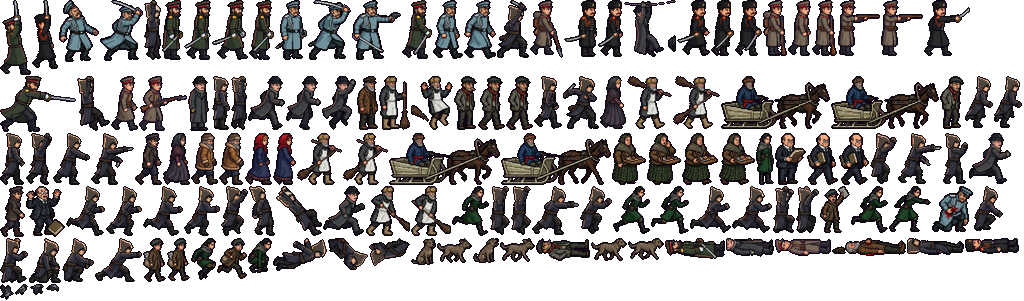
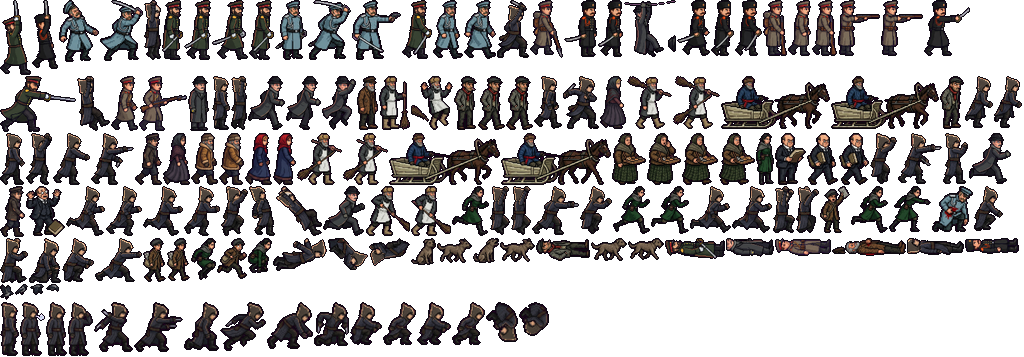
Обновление 2026-11-19 23:09

diff --git a/games/strazha/index.html b/games/strazha/index.html
@@ -385,7 +385,7 @@ function landCheck(){const fell=(P.y-P.fallY)/TS;const soft=hideAt(P.x,P.y)||hid
     if(fell>13)damage(Math.ceil((fell-13)/2),P.x);if(fell>8){G.rollN=(G.rollN||0)+1;toastTxt('Перекат!');if(G.rollN>=5)ach('roll5');}return;}
   if(fell>8&&fell<=18&&P.st!=='dead')hint('Перед самым приземлением жми БЛОК — Илья уйдёт в перекат и не разобьётся.');
   if(fell>13)die();else if(fell>8)damage(Math.ceil((fell-8)/2),P.x);else if(fell>2.5){sfx('land');P.land=8;if(fell>5)haptic('light');}}
-function updPlayer(){const p=P;p.anim++;if(p.inv>0)p.inv--;if(p.hurt>0)p.hurt--;if(p.noGrab>0)p.noGrab--;if(p.ctr>0)p.ctr--;if(p.kill>0)p.kill--;if(p.cj>0)p.cj--;if(p.land>0)p.land--;if(p.comboT>0)p.comboT--;
+function updPlayer(){const p=P;p.anim++;if(p.inv>0)p.inv--;if(p.hurt>0)p.hurt--;if(p.noGrab>0)p.noGrab--;if(p.ctr>0)p.ctr--;if(p.kill>0)p.kill--;if(p.cj>0)p.cj--;if(p.land>0)p.land--;if(p.kanim&&p.kanim.t>0)p.kanim.t--;if(p.comboT>0)p.comboT--;
   if(p.st==='dead'){p.vy=Math.min(p.vy+0.35,7);moveY(p,p.vy,PW,8);return;}
   if(p.st==='sync'||p.st==='tackle'||p.st==='hook')return;
   if(p.rollBuf>0)p.rollBuf--;if(IN.b&&!p.bWas&&p.st==='air'&&p.vy>0)p.rollBuf=16;p.bWas=IN.b;
@@ -491,7 +491,7 @@ function attackHit(){let hit=false;const knife=WPN[P.wpn]==='knife';for(const e 
 function airKill(){if(P.vy<1.5)return;for(const e of L.enemies){if(e.dead||e.k==='line')continue;
   if(Math.abs(e.x-P.x)<11&&P.y>e.y-28&&P.y<e.y-8){const o=L.enemies.find(q=>q!==e&&!q.dead&&q.k!=='line'&&!q.boss&&q.st!=='alert'&&Math.abs(q.x-e.x)<26&&Math.abs(q.y-e.y)<10);
     if(o&&e.st!=='alert'){finisher(e,'double');finisher(o,'double');G.slow=34;toastTxt('Двойной удар сверху!');ach('double');haptic('heavy');}else finisher(e,'air');P.vy=-2.5;P.fallY=P.y;return;}}}
-function finisher(e,how){if(e.boss){bossHit(e,how);return;}haptic('medium');e.dead=1;e.dt=0;e.st='dead';e.how=how;e.dface=sgn(P.x-e.x)||1;if(G.tok===e)G.tok=null;G.kills++;
+function finisher(e,how){if(how==='double'||how==='chain'||how==='air')P.kanim={k:how,t:20};if(e.boss){bossHit(e,how);return;}haptic('medium');e.dead=1;e.dt=0;e.st='dead';e.how=how;e.dface=sgn(P.x-e.x)||1;if(G.tok===e)G.tok=null;G.kills++;
   const silent=(how==='back'||how==='hide'||how==='air'||how==='double')&&WPN[P.wpn]!=='knife';
   if(silent){G.silent++;if(how==='back'||how==='air')ach('blade');}else if(how!=='double')for(const o of L.enemies)if(!o.dead&&o!==e&&Math.abs(o.x-e.x)<90&&Math.abs(o.y-e.y)<30&&o.st!=='alert')o.meter=Math.min(1,o.meter+0.6);
   if(G.wx&&G.wx.int>0.5)ach('storm');
@@ -725,7 +725,7 @@ const LOOK={
 
 /* ================= СПРАЙТЫ ИЗ SYNTX ================= 
   атлас: имя → [x,y,w,h,ax,ay]; 1 пиксель спрайта = 0.5 пикселя мира; (ax,ay) — точка ног */
-const SPR={img:null,ok:false,m:{"ilya_run0": [965, 76, 28, 52, 15.7, 51], "ilya_run1": [66, 186, 39, 50, 25.0, 49], "ilya_run2": [690, 186, 41, 47, 25.4, 46], "ilya_run3": [106, 186, 36, 50, 22.0, 49], "ilya_run4": [994, 76, 28, 52, 15.4, 51], "ilya_run5": [143, 186, 40, 50, 24.9, 49], "ilya_run6": [732, 186, 40, 47, 24.2, 46], "ilya_run7": [184, 186, 36, 50, 20.9, 49], "ilya_idle": [212, 76, 18, 54, 8.6, 53], "ilya_walk0": [534, 76, 28, 53, 15.0, 52], "ilya_walk1": [0, 133, 25, 52, 13.6, 51], "ilya_crouch": [62, 238, 32, 44, 16.1, 43], "ilya_jump": [221, 186, 27, 50, 11.0, 49], "ilya_fall": [26, 133, 26, 52, 12.9, 51], "ilya_land": [974, 186, 29, 45, 13.8, 44], "ilya_hurt": [249, 186, 26, 50, 12.4, 49], "ilya_climb0": [490, 186, 20, 49, 8.2, 48], "ilya_climb1": [773, 186, 22, 47, 9.0, 46], "ilya_climb2": [511, 186, 20, 49, 8.1, 48], "ilya_climb3": [796, 186, 23, 47, 8.4, 46], "ilya_wall": [0, 238, 28, 45, 13.5, 44], "ilya_hang": [231, 76, 16, 54, 8.3, 53], "ilya_pull0": [870, 133, 27, 51, 10.0, 50], "ilya_pull1": [580, 186, 32, 48, 14.7, 47], "ilya_atk1": [898, 133, 44, 51, 19.9, 50], "ilya_atk2": [53, 133, 37, 52, 20.1, 51], "ilya_atk3": [95, 238, 47, 44, 28.5, 43], "ilya_block": [943, 133, 25, 51, 11.8, 50], "ilya_kill": [532, 186, 47, 49, 24.9, 48], "ilya_throw": [91, 133, 43, 52, 20.0, 51], "ilya_roll0": [328, 238, 40, 32, 18.5, 31], "ilya_roll1": [369, 238, 41, 28, 18.3, 27], "ilya_swing0": [144, 0, 17, 60, 8.1, 59], "ilya_swing1": [276, 186, 46, 50, 23.3, 49], "ilya_zip": [77, 76, 33, 55, 10.4, 54], "ilya_dive": [273, 238, 54, 33, 27.2, 32], "ilya_sync": [29, 238, 32, 45, 18.4, 44], "ilya_dead": [907, 238, 57, 17, 25.9, 16], "ilya_wind1": [563, 76, 36, 53, 18.0, 52], "ilya_wind2": [497, 0, 32, 58, 15.9, 57], "cop_idle": [564, 0, 33, 57, 23.1, 56], "cop_walk0": [598, 0, 25, 57, 15.4, 56], "cop_walk1": [677, 0, 33, 56, 21.0, 55], "cop_walk2": [711, 0, 23, 56, 12.1, 55], "cop_walk3": [735, 0, 27, 56, 14.3, 55], "cop_wind": [32, 0, 26, 69, 11.5, 68], "soldier_idle": [763, 0, 24, 56, 10.4, 55], "soldier_walk0": [788, 0, 23, 56, 13.4, 55], "soldier_walk1": [111, 76, 27, 55, 15.1, 54], "soldier_walk2": [812, 0, 25, 56, 12.9, 55], "soldier_walk3": [530, 0, 33, 58, 13.5, 57], "soldier_wind": [838, 0, 42, 56, 12.9, 55], "soldier_aim": [881, 0, 42, 56, 12.9, 55], "officer_idle": [162, 0, 21, 60, 10.0, 59], "officer_walk0": [184, 0, 27, 60, 16.8, 59], "officer_walk1": [212, 0, 36, 60, 22.3, 59], "officer_walk2": [249, 0, 25, 60, 13.4, 59], "officer_walk3": [402, 0, 30, 59, 17.0, 58], "officer_wind": [0, 0, 31, 75, 13.4, 74], "cop_strike": [924, 0, 46, 56, 16.5, 55], "cop_dead": [965, 238, 54, 16, 27.0, 15], "soldier_strike": [139, 76, 48, 55, 18.7, 54], "soldier_dead": [775, 238, 56, 18, 28.4, 17], "officer_strike": [0, 76, 76, 56, 27.4, 55], "officer_dead": [665, 238, 60, 21, 30.7, 20], "agent_idle": [188, 76, 23, 55, 9.9, 54], "agent_run0": [248, 76, 37, 54, 20.6, 53], "agent_run1": [323, 186, 42, 50, 25.7, 49], "agent_run2": [286, 76, 35, 54, 18.4, 53], "agent_run3": [969, 133, 42, 51, 23.9, 50], "agent_jump": [322, 76, 34, 54, 16.7, 53], "agent_zip": [624, 0, 52, 57, 18.2, 56], "agent_dead": [726, 238, 48, 19, 23.4, 18], "crowd_m0_0": [135, 133, 27, 52, 15.6, 51], "crowd_m0_1": [0, 186, 25, 51, 13.6, 50], "crowd_w0_0": [163, 133, 27, 52, 14.8, 51], "crowd_w0_1": [600, 76, 26, 53, 13.2, 52], "crowd_m1_0": [191, 133, 27, 52, 14.2, 51], "crowd_m1_1": [219, 133, 25, 52, 12.7, 51], "crowd_w1_0": [245, 133, 27, 52, 15.1, 51], "crowd_w1_1": [273, 133, 23, 52, 11.6, 51], "father_stand": [357, 76, 21, 54, 9.7, 53], "father_dead": [832, 238, 74, 18, 39.1, 17], "dvornik_walk0": [627, 76, 45, 53, 24.2, 52], "dvornik_walk1": [297, 133, 45, 52, 25.8, 51], "dvornik_walk2": [673, 76, 47, 53, 26.7, 52], "dvornik_walk3": [343, 133, 45, 52, 25.5, 51], "dvornik_sweep0": [366, 186, 44, 50, 17.7, 49], "dvornik_sweep1": [411, 186, 40, 50, 14.8, 49], "dvornik_stand": [379, 76, 31, 54, 13.0, 53], "dvornik_scared": [411, 76, 42, 54, 23.3, 53], "cab_0": [389, 133, 111, 52, 51.6, 51], "cab_1": [501, 133, 110, 52, 51.0, 51], "cab_2": [721, 76, 109, 53, 49.9, 52], "cab_3": [831, 76, 108, 53, 49.5, 52], "baba_stand": [612, 133, 34, 52, 15.0, 51], "baba_call": [647, 133, 34, 52, 15.8, 51], "baba_walk0": [682, 133, 36, 52, 16.8, 51], "baba_walk1": [719, 133, 36, 52, 16.7, 51], "boy_walk0": [143, 238, 23, 44, 9.9, 43], "boy_walk1": [167, 238, 23, 43, 9.7, 42], "boy_shout": [820, 186, 30, 47, 10.3, 46], "boy_run": [217, 238, 30, 41, 15.4, 40], "varvara_idle": [756, 133, 18, 52, 8.3, 51], "varvara_run0": [452, 186, 37, 50, 20.6, 49], "varvara_run1": [613, 186, 37, 48, 20.4, 47], "varvara_run2": [651, 186, 38, 48, 21.7, 47], "varvara_run3": [851, 186, 37, 47, 20.5, 46], "varvara_jump": [191, 238, 25, 42, 11.5, 41], "varvara_throw": [889, 186, 42, 46, 19.5, 45], "varvara_crouch": [248, 238, 24, 35, 10.2, 34], "rykov_idle": [275, 0, 32, 60, 17.0, 59], "rykov_walk0": [433, 0, 30, 59, 14.0, 58], "rykov_walk1": [464, 0, 32, 59, 14.6, 58], "rykov_wind": [100, 0, 43, 61, 22.6, 60], "rykov_strike": [308, 0, 43, 60, 21.3, 59], "rykov_aim": [352, 0, 49, 60, 15.8, 59], "rykov_hurt": [59, 0, 40, 62, 17.4, 61], "rykov_kneel": [932, 186, 41, 46, 21.4, 45], "clerk_idle": [775, 133, 31, 52, 13.7, 51], "clerk_walk0": [807, 133, 31, 52, 13.9, 51], "clerk_walk1": [839, 133, 30, 52, 14.1, 51], "clerk_scared": [26, 186, 39, 51, 15.5, 50], "kuku_idle": [454, 76, 23, 54, 10.5, 53], "kuku_walk0": [478, 76, 27, 54, 12.1, 53], "kuku_walk1": [506, 76, 27, 54, 12.1, 53], "kuku_look": [940, 76, 24, 53, 10.3, 52], "kuku_dead": [536, 238, 54, 23, 27.4, 22], "dog_walk0": [628, 238, 36, 22, 17.5, 21], "dog_walk1": [500, 238, 35, 24, 17.1, 23], "dog_walk2": [591, 238, 36, 23, 18.0, 22], "dog_walk3": [437, 238, 35, 25, 17.0, 24], "dog_sit": [411, 238, 25, 27, 15.3, 26], "dog_bark": [473, 238, 26, 25, 14.0, 24], "crow_stand": [15, 284, 13, 11, 6.4, 10], "crow_peck": [45, 284, 14, 8, 7.7, 7], "crow_fly0": [0, 284, 14, 16, 6.5, 15], "crow_fly1": [29, 284, 15, 11, 8.0, 10]}};
+const SPR={img:null,ok:false,m:{"ilya_run0": [965, 76, 28, 52, 15.7, 51], "ilya_run1": [66, 186, 39, 50, 25.0, 49], "ilya_run2": [690, 186, 41, 47, 25.4, 46], "ilya_run3": [106, 186, 36, 50, 22.0, 49], "ilya_run4": [994, 76, 28, 52, 15.4, 51], "ilya_run5": [143, 186, 40, 50, 24.9, 49], "ilya_run6": [732, 186, 40, 47, 24.2, 46], "ilya_run7": [184, 186, 36, 50, 20.9, 49], "ilya_idle": [212, 76, 18, 54, 8.6, 53], "ilya_walk0": [534, 76, 28, 53, 15.0, 52], "ilya_walk1": [0, 133, 25, 52, 13.6, 51], "ilya_crouch": [62, 238, 32, 44, 16.1, 43], "ilya_jump": [221, 186, 27, 50, 11.0, 49], "ilya_fall": [26, 133, 26, 52, 12.9, 51], "ilya_land": [974, 186, 29, 45, 13.8, 44], "ilya_hurt": [249, 186, 26, 50, 12.4, 49], "ilya_climb0": [490, 186, 20, 49, 8.2, 48], "ilya_climb1": [773, 186, 22, 47, 9.0, 46], "ilya_climb2": [511, 186, 20, 49, 8.1, 48], "ilya_climb3": [796, 186, 23, 47, 8.4, 46], "ilya_wall": [0, 238, 28, 45, 13.5, 44], "ilya_hang": [231, 76, 16, 54, 8.3, 53], "ilya_pull0": [870, 133, 27, 51, 10.0, 50], "ilya_pull1": [580, 186, 32, 48, 14.7, 47], "ilya_atk1": [898, 133, 44, 51, 19.9, 50], "ilya_atk2": [53, 133, 37, 52, 20.1, 51], "ilya_atk3": [95, 238, 47, 44, 28.5, 43], "ilya_block": [943, 133, 25, 51, 11.8, 50], "ilya_kill": [532, 186, 47, 49, 24.9, 48], "ilya_throw": [91, 133, 43, 52, 20.0, 51], "ilya_roll0": [328, 238, 40, 32, 18.5, 31], "ilya_roll1": [369, 238, 41, 28, 18.3, 27], "ilya_swing0": [144, 0, 17, 60, 8.1, 59], "ilya_swing1": [276, 186, 46, 50, 23.3, 49], "ilya_zip": [77, 76, 33, 55, 10.4, 54], "ilya_dive": [273, 238, 54, 33, 27.2, 32], "ilya_sync": [29, 238, 32, 45, 18.4, 44], "ilya_dead": [907, 238, 57, 17, 25.9, 16], "ilya_wind1": [563, 76, 36, 53, 18.0, 52], "ilya_wind2": [497, 0, 32, 58, 15.9, 57], "cop_idle": [564, 0, 33, 57, 23.1, 56], "cop_walk0": [598, 0, 25, 57, 15.4, 56], "cop_walk1": [677, 0, 33, 56, 21.0, 55], "cop_walk2": [711, 0, 23, 56, 12.1, 55], "cop_walk3": [735, 0, 27, 56, 14.3, 55], "cop_wind": [32, 0, 26, 69, 11.5, 68], "soldier_idle": [763, 0, 24, 56, 10.4, 55], "soldier_walk0": [788, 0, 23, 56, 13.4, 55], "soldier_walk1": [111, 76, 27, 55, 15.1, 54], "soldier_walk2": [812, 0, 25, 56, 12.9, 55], "soldier_walk3": [530, 0, 33, 58, 13.5, 57], "soldier_wind": [838, 0, 42, 56, 12.9, 55], "soldier_aim": [881, 0, 42, 56, 12.9, 55], "officer_idle": [162, 0, 21, 60, 10.0, 59], "officer_walk0": [184, 0, 27, 60, 16.8, 59], "officer_walk1": [212, 0, 36, 60, 22.3, 59], "officer_walk2": [249, 0, 25, 60, 13.4, 59], "officer_walk3": [402, 0, 30, 59, 17.0, 58], "officer_wind": [0, 0, 31, 75, 13.4, 74], "cop_strike": [924, 0, 46, 56, 16.5, 55], "cop_dead": [965, 238, 54, 16, 27.0, 15], "soldier_strike": [139, 76, 48, 55, 18.7, 54], "soldier_dead": [775, 238, 56, 18, 28.4, 17], "officer_strike": [0, 76, 76, 56, 27.4, 55], "officer_dead": [665, 238, 60, 21, 30.7, 20], "agent_idle": [188, 76, 23, 55, 9.9, 54], "agent_run0": [248, 76, 37, 54, 20.6, 53], "agent_run1": [323, 186, 42, 50, 25.7, 49], "agent_run2": [286, 76, 35, 54, 18.4, 53], "agent_run3": [969, 133, 42, 51, 23.9, 50], "agent_jump": [322, 76, 34, 54, 16.7, 53], "agent_zip": [624, 0, 52, 57, 18.2, 56], "agent_dead": [726, 238, 48, 19, 23.4, 18], "crowd_m0_0": [135, 133, 27, 52, 15.6, 51], "crowd_m0_1": [0, 186, 25, 51, 13.6, 50], "crowd_w0_0": [163, 133, 27, 52, 14.8, 51], "crowd_w0_1": [600, 76, 26, 53, 13.2, 52], "crowd_m1_0": [191, 133, 27, 52, 14.2, 51], "crowd_m1_1": [219, 133, 25, 52, 12.7, 51], "crowd_w1_0": [245, 133, 27, 52, 15.1, 51], "crowd_w1_1": [273, 133, 23, 52, 11.6, 51], "father_stand": [357, 76, 21, 54, 9.7, 53], "father_dead": [832, 238, 74, 18, 39.1, 17], "dvornik_walk0": [627, 76, 45, 53, 24.2, 52], "dvornik_walk1": [297, 133, 45, 52, 25.8, 51], "dvornik_walk2": [673, 76, 47, 53, 26.7, 52], "dvornik_walk3": [343, 133, 45, 52, 25.5, 51], "dvornik_sweep0": [366, 186, 44, 50, 17.7, 49], "dvornik_sweep1": [411, 186, 40, 50, 14.8, 49], "dvornik_stand": [379, 76, 31, 54, 13.0, 53], "dvornik_scared": [411, 76, 42, 54, 23.3, 53], "cab_0": [389, 133, 111, 52, 51.6, 51], "cab_1": [501, 133, 110, 52, 51.0, 51], "cab_2": [721, 76, 109, 53, 49.9, 52], "cab_3": [831, 76, 108, 53, 49.5, 52], "baba_stand": [612, 133, 34, 52, 15.0, 51], "baba_call": [647, 133, 34, 52, 15.8, 51], "baba_walk0": [682, 133, 36, 52, 16.8, 51], "baba_walk1": [719, 133, 36, 52, 16.7, 51], "boy_walk0": [143, 238, 23, 44, 9.9, 43], "boy_walk1": [167, 238, 23, 43, 9.7, 42], "boy_shout": [820, 186, 30, 47, 10.3, 46], "boy_run": [217, 238, 30, 41, 15.4, 40], "varvara_idle": [756, 133, 18, 52, 8.3, 51], "varvara_run0": [452, 186, 37, 50, 20.6, 49], "varvara_run1": [613, 186, 37, 48, 20.4, 47], "varvara_run2": [651, 186, 38, 48, 21.7, 47], "varvara_run3": [851, 186, 37, 47, 20.5, 46], "varvara_jump": [191, 238, 25, 42, 11.5, 41], "varvara_throw": [889, 186, 42, 46, 19.5, 45], "varvara_crouch": [248, 238, 24, 35, 10.2, 34], "rykov_idle": [275, 0, 32, 60, 17.0, 59], "rykov_walk0": [433, 0, 30, 59, 14.0, 58], "rykov_walk1": [464, 0, 32, 59, 14.6, 58], "rykov_wind": [100, 0, 43, 61, 22.6, 60], "rykov_strike": [308, 0, 43, 60, 21.3, 59], "rykov_aim": [352, 0, 49, 60, 15.8, 59], "rykov_hurt": [59, 0, 40, 62, 17.4, 61], "rykov_kneel": [932, 186, 41, 46, 21.4, 45], "clerk_idle": [775, 133, 31, 52, 13.7, 51], "clerk_walk0": [807, 133, 31, 52, 13.9, 51], "clerk_walk1": [839, 133, 30, 52, 14.1, 51], "clerk_scared": [26, 186, 39, 51, 15.5, 50], "kuku_idle": [454, 76, 23, 54, 10.5, 53], "kuku_walk0": [478, 76, 27, 54, 12.1, 53], "kuku_walk1": [506, 76, 27, 54, 12.1, 53], "kuku_look": [940, 76, 24, 53, 10.3, 52], "kuku_dead": [536, 238, 54, 23, 27.4, 22], "dog_walk0": [628, 238, 36, 22, 17.5, 21], "dog_walk1": [500, 238, 35, 24, 17.1, 23], "dog_walk2": [591, 238, 36, 23, 18.0, 22], "dog_walk3": [437, 238, 35, 25, 17.0, 24], "dog_sit": [411, 238, 25, 27, 15.3, 26], "dog_bark": [473, 238, 26, 25, 14.0, 24], "crow_stand": [15, 284, 13, 11, 6.4, 10], "crow_peck": [45, 284, 14, 8, 7.7, 7], "crow_fly0": [0, 284, 14, 16, 6.5, 15], "crow_fly1": [29, 284, 15, 11, 8.0, 10], "ilya_idle0": [0, 302, 19, 54, 9.1, 53], "ilya_idle1": [20, 302, 25, 54, 9.7, 53], "ilya_idle2": [46, 302, 21, 54, 9.2, 53], "ilya_idle3": [68, 302, 25, 54, 10.1, 53], "ilya_dkill0": [94, 302, 39, 50, 17.2, 49], "ilya_dkill1": [134, 302, 49, 50, 27.7, 49], "ilya_rollD": [184, 302, 35, 49, 19.8, 48], "ilya_dash": [220, 302, 46, 49, 23.2, 48], "ilya_rollA": [267, 302, 46, 47, 25.7, 46], "ilya_airkill": [314, 302, 35, 44, 18.1, 43], "ilya_sneak0": [350, 302, 32, 43, 16.1, 42], "ilya_sneak1": [383, 302, 33, 43, 17.6, 42], "ilya_sneak2": [417, 302, 34, 43, 18.3, 42], "ilya_sneak3": [452, 302, 33, 43, 17.6, 42], "ilya_rollB": [486, 302, 32, 40, 17.1, 39], "ilya_rollC": [519, 302, 30, 34, 15.4, 33]}};
 (function(){const im=new Image();im.onload=()=>{SPR.img=im;SPR.ok=true;};im.src='art/atlas.png';})();
 function spr(name,x,y,face,o){const f=SPR.m[name];if(!SPR.ok||!f)return false;const [sx,sy,w,h,ax,ay]=f;o=o||{};
   ctx.save();ctx.translate(x,y);if(o.rot)ctx.rotate(o.rot);ctx.scale(face*(o.sx||1),o.sy||1);
@@ -737,16 +737,18 @@ function ilyaFrame(){const p=P,sp=Math.abs(p.vx),gr=onGround(p,PW);
   if(p.st==='hook')return p.hk.t>14?'ilya_climb'+(Math.floor(p.anim/6)%4):'ilya_throw';if(p.st==='hang')return 'ilya_hang';if(p.st==='pull')return p.pull>7?'ilya_pull0':'ilya_pull1';
   if(p.st==='climb')return p.cm&&p.cm.k==='wall'?(Math.floor(p.climb/12)%2?'ilya_wall':'ilya_climb'+(Math.floor(p.climb/12)%4)):'ilya_climb'+(Math.floor(p.climb/10)%4);
   if(p.st==='swing')return p.sw&&p.sw.a*p.face>0.3?'ilya_swing1':'ilya_swing0';if(p.st==='zip')return 'ilya_zip';
-  if(p.roll>0)return p.roll>10?'ilya_roll0':'ilya_roll1';if(p.hurt>0)return 'ilya_hurt';
+  if(p.kanim&&p.kanim.t>0){const t=p.kanim.t,k=p.kanim.k;if(k==='double')return t>11?'ilya_dkill0':'ilya_dkill1';if(k==='chain')return t>10?'ilya_dash':'ilya_dkill1';if(k==='air')return 'ilya_airkill';}
+  if(p.roll>0)return p.roll>15?'ilya_rollA':p.roll>10?'ilya_rollB':p.roll>5?'ilya_rollC':'ilya_rollD';if(p.hurt>0)return 'ilya_hurt';
   if(p.atk>0){const n=p.atkN;const tot=n===3?20:n===4?20:n===5?14:15;const k=clamp(1-(p.atk-4)/(tot-6),0,1);
     if(n===1)return k<0.35?'ilya_wind1':'ilya_atk1';if(n===2)return k<0.35?'ilya_wind2':'ilya_atk2';if(n===3)return k<0.3?'ilya_wind1':'ilya_atk3';if(n===4)return 'ilya_kill';return 'ilya_throw';}
   if(p.blk)return 'ilya_block';
   if(!gr)return p.dive?'ilya_dive':p.vy<0?'ilya_jump':'ilya_fall';
-  if(p.land>0)return 'ilya_land';if(p.crouch)return 'ilya_crouch';
+  if(p.land>0)return 'ilya_land';
   p.runPh=(p.runPh||0)+sp*0.075;
+  if(p.crouch)return sp>0.15?'ilya_sneak'+(Math.floor(p.runPh*1.3)%4):'ilya_crouch';
   if(sp>1.2)return 'ilya_run'+(Math.floor(p.runPh)%8);
   if(sp>0.15)return 'ilya_walk'+(Math.floor(p.runPh*1.4)%2);
-  return 'ilya_idle';}
+  {const t=(G.t||0)%420;if(t>360)return t<375||t>405?'ilya_idle0':'ilya_idle3';return 'ilya_idle'+[0,1,0,2][Math.floor(t/26)%4];}}// дыхание + поправить башлык раз в 7 с
 function enemyFrame(e){if(e.boss){if(e.downed||e.dead)return 'rykov_kneel';if(e.stun>0)return 'rykov_hurt';if(e.wind>0)return e.wind<6?'rykov_strike':'rykov_wind';if(e.aim>0)return 'rykov_aim';return Math.abs(P.x-e.x)>24?'rykov_walk'+(Math.floor(e.anim/10)%2):'rykov_idle';}
   const w=e.k==='line'?'soldier':e.k;
   if(e.dead)return w+'_dead';if(e.wind>0)return e.wind<6?w+'_strike':w+'_wind';
@@ -1756,7 +1758,7 @@ let last=0,acc=0;function loop(ts){requestAnimationFrame(loop);if(!last)last=ts;
   while(acc>=1000/60){update();acc-=1000/60;}draw();}
 layout();requestAnimationFrame(loop);
 if('serviceWorker' in navigator&&location.protocol.startsWith('http'))navigator.serviceWorker.register('sw.js').catch(()=>{});
-window.__strazha={get P(){return P},pairTargets,AU,TB,TL,get TCUR(){return TCUR},get L(){return L},get G(){return G},ST,IN,K,startMission,step:n=>{for(let i=0;i<(n||1);i++)update();},dlgNext,restoreCP,SAVE,tile,MISSIONS,nextWeapon,mapZoom,ACH,ach,useWhistle,finishMission,startSide,UPG,CODEX,buyUpg,CX,MAP,mapOpen,playMission,showAct,ACTS,get ACT(){return ST.act},dialog,QL,get TRKNOW(){return TCUR&&TCUR.k},get TBK(){return Object.keys(TB)},AU};
+window.__strazha={get P(){return P},pairTargets,ilyaFrame,AU,TB,TL,get TCUR(){return TCUR},get L(){return L},get G(){return G},ST,IN,K,startMission,step:n=>{for(let i=0;i<(n||1);i++)update();},dlgNext,restoreCP,SAVE,tile,MISSIONS,nextWeapon,mapZoom,ACH,ach,useWhistle,finishMission,startSide,UPG,CODEX,buyUpg,CX,MAP,mapOpen,playMission,showAct,ACTS,get ACT(){return ST.act},dialog,QL,get TRKNOW(){return TCUR&&TCUR.k},get TBK(){return Object.keys(TB)},AU};
 })();
 
 </script>

diff --git a/games/strazha/sw.js b/games/strazha/sw.js
@@ -1,6 +1,6 @@
 // Ночная стража — офлайн-кэш ТОЛЬКО для папки games/strazha/ (корень сайта не трогает).
 // При обновлении игры меняй VERSION.
-const VERSION='strazha-v27';
+const VERSION='strazha-v28';
 const FILES=['./','./index.html','./manifest.webmanifest','./cover.png','./icon-192.png','./icon-512.png','./art/act1.jpg','./art/act2.jpg','./art/act3.jpg','./art/map.jpg','./art/atlas.png','./art/city.png','./art/sky_far.png','./art/city_mid.png','./art/city_mid_warm.png','./art/city_back.png','./art/city_near.png'];
 self.addEventListener('install',e=>{e.waitUntil(caches.open(VERSION).then(c=>c.addAll(FILES)).then(()=>self.skipWaiting()));});
 self.addEventListener('activate',e=>{e.waitUntil(caches.keys().then(ks=>Promise.all(ks.filter(k=>k.startsWith('strazha-')&&k!==VERSION).map(k=>caches.delete(k)))).then(()=>self.clients.claim()));});
